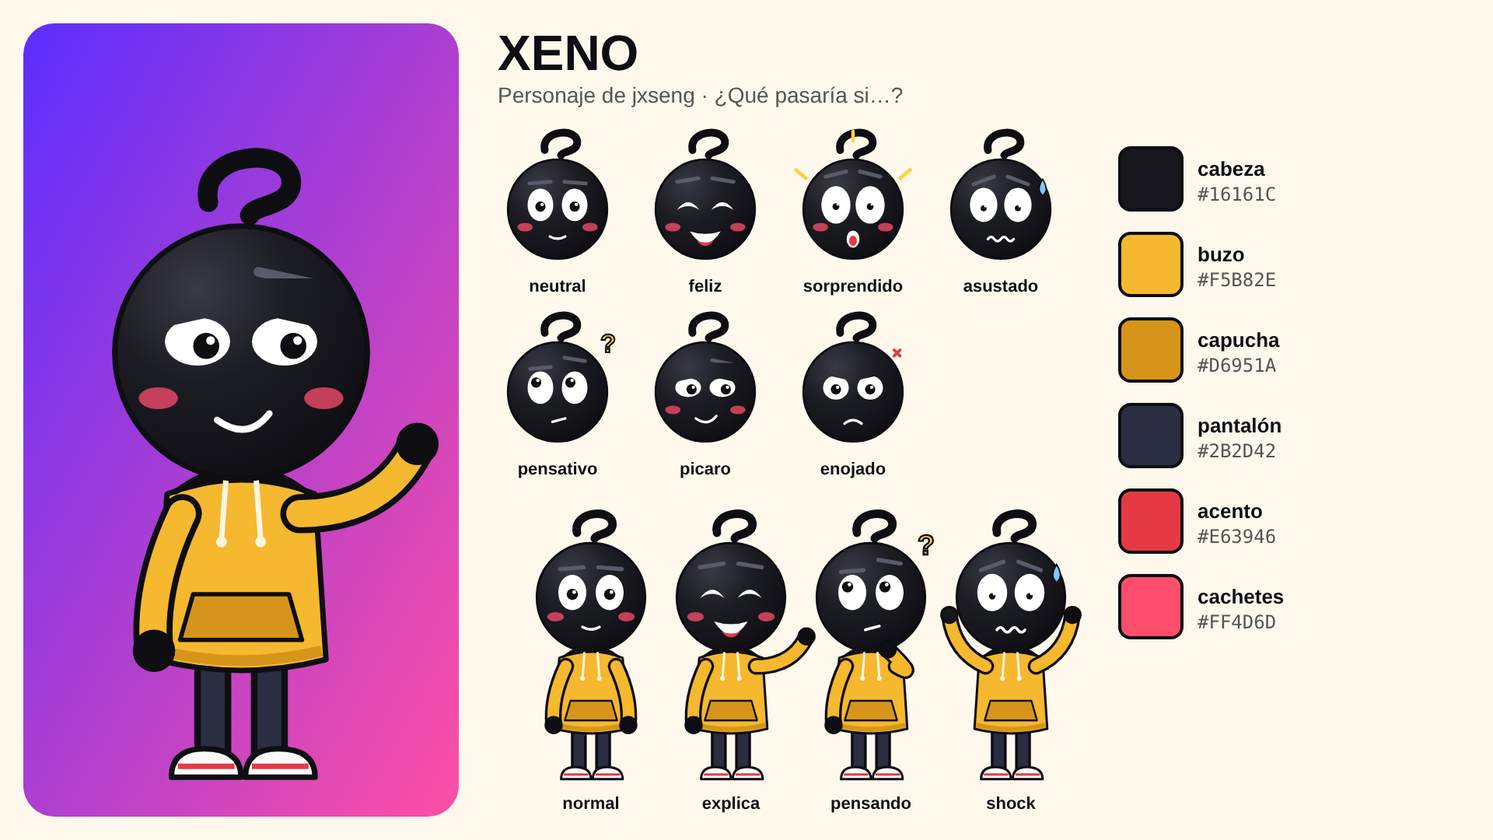
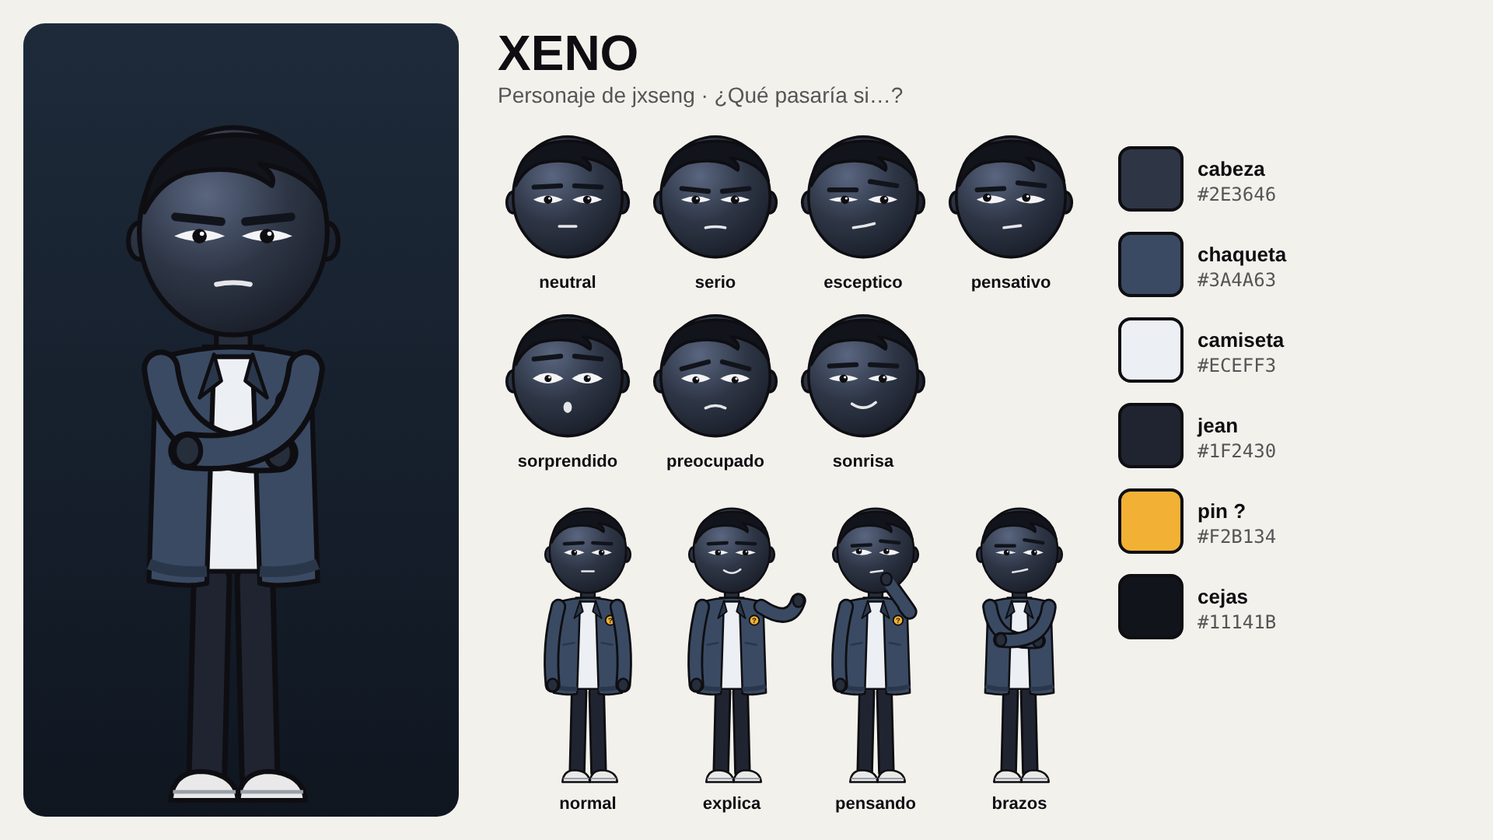
Xeno v3: versión seria (proporciones adultas, chaqueta bomber, ojos almendrados)
Claude-Session: https://claude.ai/code/session_011f9PzjpwXDM6HqEJ82Dbs1

diff --git a/videos-geopolitica/personaje/personaje.py b/videos-geopolitica/personaje/personaje.py
@@ -1,105 +1,88 @@
-"""Xeno v2: estilo de la referencia (cabeza negra redonda, ojos blancos grandes, buzo), con rasgos propios:
-rizo en forma de "?" y buzo mostaza con capucha."""
-HEAD, OUT = '#16161C', '#0E0E12'
-HOOD, HOODD, STR, PANTS, SHOE, ACC = '#F5B82E', '#D6951A', '#FFF6E0', '#2B2D42', '#FAFAFA', '#E63946'
-W = 5
+"""Xeno v3 (serio): silueta negra estilo referencia con proporciones de adulto, ojos almendrados,
+chaqueta bomber gris azulado, camiseta blanca, jean oscuro. Sello discreto: pin "?" en el pecho."""
+OUT = '#0E0E12'
+JACK, JACKD, TEE, PANTS, SHOE, PIN = '#3A4A63', '#2A374B', '#ECEFF3', '#1F2430', '#E9E9E9', '#F2B134'
+BROW = '#11141B'
+W = 4
 
 def defs():
-    return ('<defs><radialGradient id="hl" gradientUnits="userSpaceOnUse" cx="160" cy="130" r="190">'
-            '<stop offset="0" stop-color="#3A3A46"/><stop offset=".45" stop-color="#1C1C24"/><stop offset="1" stop-color="#0E0E12"/>'
+    return ('<defs><radialGradient id="hl" gradientUnits="userSpaceOnUse" cx="178" cy="78" r="120">'
+            '<stop offset="0" stop-color="#5A6680"/><stop offset=".55" stop-color="#2E3646"/><stop offset="1" stop-color="#1A1F2A"/>'
             '</radialGradient></defs>')
 
+def almond(x, y, w, h, lid=0):
+    return f'M{x-w} {y} Q{x} {y-h-lid} {x+w} {y} Q{x} {y+h*0.85} {x-w} {y}Z'
+
 def eyes(e):
-    s = []
-    if e == 'feliz':
-        for x in (160, 240):
-            s.append(f'<path d="M{x-26} 190 Q{x} 154 {x+26} 190 Q{x} 172 {x-26} 190Z" fill="#fff"/>')
-        return ''.join(s)
-    rx, ry, pr, dx, dy = 30, 38, 12, 0, 2
-    if e == 'sorprendido': rx, ry, pr = 34, 44, 8
-    if e == 'asustado': rx, ry, pr, dy = 32, 40, 7, 6
-    if e == 'pensativo': dx, dy = -10, -14
-    if e == 'picaro': ry, dx = 22, 8
-    if e == 'enojado': ry = 28
-    for x in (160, 240):
-        s.append(f'<ellipse cx="{x}" cy="178" rx="{rx}" ry="{ry}" fill="#fff"/>')
-        s.append(f'<circle cx="{x+dx}" cy="{180+dy}" r="{pr}" fill="{OUT}"/>')
-        s.append(f'<circle cx="{x+dx+4}" cy="{175+dy}" r="{max(3,pr//3)}" fill="#fff"/>')
-    if e in ('enojado', 'picaro'):
-        for x, sgn in ((160, 1), (240, -1)):
-            top = 146 if e == 'enojado' else 150
-            a, b = (top, top + 16) if (sgn > 0) == (e == 'enojado') else (top + 16, top)
-            s.append(f'<path d="M{x-36} {a} L{x+36} {b} L{x+36} 120 L{x-36} 120Z" fill="url(#hl)"/>')
-    return ''.join(s)
-
-def brows(e):
-    d = {'neutral': ((134,128,184,124),(216,124,266,128)),
-         'feliz': ((134,124,184,116),(216,116,266,124)),
-         'sorprendido': ((136,112,184,100),(216,100,264,112)),
-         'asustado': ((136,130,184,112),(216,112,264,130)),
-         'pensativo': ((136,134,184,130),(216,108,264,116)),
-         'picaro': ((136,130,184,128),(216,114,264,124)),
-         'enojado': ((136,124,188,144),(212,144,264,124))}[e]
-    return ''.join(f'<line x1="{a}" y1="{b}" x2="{c}" y2="{f}" stroke="#5A5A68" stroke-width="9" stroke-linecap="round"/>' for a,b,c,f in d)
-
-def mouth(e):
-    return {'neutral': '<path d="M182 252 Q200 262 218 252" fill="none" stroke="#fff" stroke-width="6" stroke-linecap="round"/>',
-            'feliz': '<path d="M164 240 Q200 296 236 240 Q200 252 164 240Z" fill="#fff"/><path d="M180 262 Q200 286 220 262 Q200 270 180 262Z" fill="#E63946"/>',
-            'sorprendido': '<ellipse cx="200" cy="258" rx="15" ry="20" fill="#fff"/><ellipse cx="200" cy="262" rx="9" ry="12" fill="#E63946"/>',
-            'asustado': '<path d="M170 258 q7.5 -10 15 0 t15 0 t15 0 t15 0" fill="none" stroke="#fff" stroke-width="6" stroke-linecap="round"/>',
-            'pensativo': '<path d="M188 258 L218 250" stroke="#fff" stroke-width="6" stroke-linecap="round"/>',
-            'picaro': '<path d="M178 250 Q206 270 226 244" fill="none" stroke="#fff" stroke-width="6" stroke-linecap="round"/>',
-            'enojado': '<path d="M180 262 Q200 246 220 262" fill="none" stroke="#fff" stroke-width="6" stroke-linecap="round"/>'}[e]
-
-def extras(e):
+    cfg = {'neutral': (21, 12, 6, 0, 0), 'serio': (21, 10, 6, 0, 0), 'esceptico': (21, 11, 6, 2, 0),
+           'sorprendido': (22, 16, 5, 0, 0), 'preocupado': (21, 13, 5, 0, 2), 'pensativo': (21, 12, 6, -6, -3),
+           'sonrisa': (21, 10, 6, 0, 0)}[e]
+    w, h, pr, dx, dy = cfg
     s = ''
-    if e in ('feliz', 'sorprendido', 'picaro', 'neutral'):
-        s += '<ellipse cx="124" cy="230" rx="18" ry="10" fill="#FF4D6D" opacity=".75"/><ellipse cx="276" cy="230" rx="18" ry="10" fill="#FF4D6D" opacity=".75"/>'
-    if e == 'asustado':
-        s += f'<path d="M298 118 q16 26 0 38 q-16 -12 0 -38Z" fill="#7CC8FF" stroke="{OUT}" stroke-width="3"/>'
-    if e == 'pensativo':
-        s += f'<text x="300" y="96" font-family="Arial Black,Arial" font-weight="900" font-size="60" fill="#FFD23F" stroke="{OUT}" stroke-width="4">?</text>'
-    if e == 'sorprendido':
-        s += '<g stroke="#FFD23F" stroke-width="8" stroke-linecap="round"><line x1="66" y1="96" x2="90" y2="116"/><line x1="334" y1="96" x2="310" y2="116"/><line x1="200" y1="6" x2="200" y2="28"/></g>'
-    if e == 'enojado':
-        s += '<path d="M296 104 l14 -14 m-14 0 l14 14" stroke="#E63946" stroke-width="7" stroke-linecap="round"/>'
+    for i, x in enumerate((172, 228)):
+        hh = h - 3 if (e == 'esceptico' and i == 0) else h
+        s += f'<path d="{almond(x, 112, w, hh)}" fill="#F4F4F6"/>'
+        s += f'<circle cx="{x+dx}" cy="{112+dy}" r="{pr}" fill="{OUT}"/>'
+        s += f'<circle cx="{x+dx+2}" cy="{110+dy}" r="1.8" fill="#fff"/>'
     return s
 
+def brows(e):
+    d = {'neutral': ((152,94,190,92),(210,92,248,94)),
+         'serio': ((152,96,190,100),(210,100,248,96)),
+         'esceptico': ((152,98,190,98),(210,86,248,92)),
+         'sorprendido': ((152,84,190,80),(210,80,248,84)),
+         'preocupado': ((152,98,190,88),(210,88,248,98)),
+         'pensativo': ((152,98,190,96),(210,88,248,92)),
+         'sonrisa': ((152,94,190,92),(210,92,248,94))}[e]
+    return ''.join(f'<path d="M{a} {b} L{c} {f}" stroke="{BROW}" stroke-width="7" stroke-linecap="round"/>' for a, b, c, f in d)
+
+def mouth(e):
+    c = '#E6E6EA'
+    return {'neutral': f'<path d="M188 150 L212 150" stroke="{c}" stroke-width="4" stroke-linecap="round"/>',
+            'serio': f'<path d="M186 152 Q200 149 214 152" fill="none" stroke="{c}" stroke-width="4" stroke-linecap="round"/>',
+            'esceptico': f'<path d="M186 152 Q202 150 216 146" fill="none" stroke="{c}" stroke-width="4" stroke-linecap="round"/>',
+            'sorprendido': f'<ellipse cx="200" cy="153" rx="6" ry="8" fill="{c}"/>',
+            'preocupado': f'<path d="M186 154 Q200 147 214 154" fill="none" stroke="{c}" stroke-width="4" stroke-linecap="round"/>',
+            'pensativo': f'<path d="M190 152 L214 149" stroke="{c}" stroke-width="4" stroke-linecap="round"/>',
+            'sonrisa': f'<path d="M184 148 Q202 160 218 146" fill="none" stroke="{c}" stroke-width="4" stroke-linecap="round"/>'}[e]
+
 def head(e):
-    curl = (f'<path d="M170 50 C160 2 250 -4 246 34 C244 54 212 52 208 62" fill="none" stroke="{OUT}" stroke-width="18" stroke-linecap="round"/>')
-    return (curl + f'<circle cx="200" cy="188" r="116" fill="url(#hl)" stroke="{OUT}" stroke-width="{W}"/>'
-            + brows(e) + eyes(e) + mouth(e) + extras(e))
+    hair = (f'<path d="M126 92 Q128 30 200 28 Q266 28 276 86 Q262 58 222 52 Q236 62 232 70 Q206 50 160 60 Q138 68 126 92Z" '
+            f'fill="#11141B" stroke="{OUT}" stroke-width="{W}" stroke-linejoin="round"/>')
+    ears = ''.join(f'<ellipse cx="{x}" cy="116" rx="9" ry="15" fill="url(#hl)" stroke="{OUT}" stroke-width="{W}"/>' for x in (122, 278))
+    face = f'<ellipse cx="200" cy="108" rx="78" ry="86" fill="url(#hl)" stroke="{OUT}" stroke-width="{W}"/>'
+    return ears + face + hair + brows(e) + eyes(e) + mouth(e)
 
 def arm(x0, y0, x1, y1, x2, y2):
-    return (f'<path d="M{x0} {y0} Q{x1} {y1} {x2} {y2}" fill="none" stroke="{OUT}" stroke-width="36" stroke-linecap="round"/>'
-            f'<path d="M{x0} {y0} Q{x1} {y1} {x2} {y2}" fill="none" stroke="{HOOD}" stroke-width="25" stroke-linecap="round"/>'
-            f'<circle cx="{x2}" cy="{y2}" r="17" fill="url(#hl)" stroke="{OUT}" stroke-width="{W}"/>')
+    return (f'<path d="M{x0} {y0} Q{x1} {y1} {x2} {y2}" fill="none" stroke="{OUT}" stroke-width="32" stroke-linecap="round"/>'
+            f'<path d="M{x0} {y0} Q{x1} {y1} {x2} {y2}" fill="none" stroke="{JACK}" stroke-width="23" stroke-linecap="round"/>'
+            f'<ellipse cx="{x2}" cy="{y2}" rx="11" ry="13" fill="#262D3B" stroke="{OUT}" stroke-width="{W}"/>')
 
 def body(pose):
-    arms = {'normal': arm(146, 336, 114, 404, 120, 462) + arm(254, 336, 286, 404, 280, 462),
-            'pensando': arm(146, 336, 114, 404, 120, 462) + arm(254, 336, 304, 366, 236, 300),
-            'shock': arm(146, 336, 78, 306, 68, 226) + arm(254, 336, 322, 306, 332, 226),
-            'explica': arm(146, 336, 114, 404, 120, 462) + arm(254, 336, 332, 336, 362, 272)}[pose]
-    legs = ''.join(f'<path d="M{x} 470 L{x} 556" stroke="{OUT}" stroke-width="34" stroke-linecap="round"/>'
-                   f'<path d="M{x} 470 L{x} 556" stroke="{PANTS}" stroke-width="22" stroke-linecap="round"/>' for x in (174, 226))
-    shoes = ''.join(f'<path d="M{x-30} 578 Q{x-30} 552 {x} 552 Q{x+34} 552 {x+34} 578Z" fill="{SHOE}" stroke="{OUT}" stroke-width="{W}" stroke-linejoin="round"/>'
-                    f'<path d="M{x-24} 568 L{x+28} 568" stroke="{ACC}" stroke-width="5"/>' for x in (166, 234))
-    torso = (f'<path d="M132 318 Q200 292 268 318 L278 470 Q200 490 122 470 Z" fill="{HOOD}" stroke="{OUT}" stroke-width="{W}" stroke-linejoin="round"/>'
-             # capucha detrás del cuello
-             f'<path d="M140 316 Q200 270 260 316 Q236 300 200 300 Q164 300 140 316Z" fill="{HOODD}" stroke="{OUT}" stroke-width="{W}" stroke-linejoin="round"/>'
-             # cordones
-             f'<path d="M186 306 L182 360 M214 306 L218 360" stroke="{STR}" stroke-width="5" stroke-linecap="round"/>'
-             f'<circle cx="182" cy="362" r="5" fill="{STR}"/><circle cx="218" cy="362" r="5" fill="{STR}"/>'
-             # bolsillo canguro
-             f'<path d="M156 410 L244 410 L256 452 L144 452 Z" fill="{HOODD}" stroke="{OUT}" stroke-width="4" stroke-linejoin="round"/>'
-             f'<path d="M126 462 Q200 480 274 462" fill="none" stroke="{HOODD}" stroke-width="10"/>')
-    return legs + shoes + torso + arms
+    A = {'normal': arm(140, 222, 120, 300, 128, 382) + arm(260, 222, 280, 300, 272, 382),
+         'explica': arm(140, 222, 120, 300, 128, 382) + arm(260, 222, 320, 262, 336, 210),
+         'pensando': arm(140, 222, 120, 300, 128, 382) + arm(260, 222, 290, 260, 222, 166),
+         'brazos': arm(140, 222, 150, 300, 238, 292) + arm(260, 222, 250, 300, 162, 290)}[pose]
+    legs = ''.join(f'<path d="M{x} 396 L{x+dx} 560" stroke="{OUT}" stroke-width="34" stroke-linecap="round"/>'
+                   f'<path d="M{x} 396 L{x+dx} 560" stroke="{PANTS}" stroke-width="25" stroke-linecap="round"/>' for x, dx in ((182, -4), (218, 4)))
+    shoes = ''.join(f'<path d="M{x-24} 580 Q{x-22} 556 {x+2} 556 Q{x+30} 558 {x+32} 580Z" fill="{SHOE}" stroke="{OUT}" stroke-width="{W}" stroke-linejoin="round"/>'
+                    f'<path d="M{x-22} 573 L{x+30} 573" stroke="#9AA0AA" stroke-width="3"/>' for x in (172, 228))
+    neck = f'<rect x="186" y="186" width="28" height="22" fill="#262D3B" stroke="{OUT}" stroke-width="{W}"/>'
+    tee = f'<path d="M176 204 L224 204 L230 390 L170 390Z" fill="{TEE}" stroke="{OUT}" stroke-width="{W}"/>'
+    jacket = (f'<path d="M136 214 Q200 194 264 214 L270 398 Q238 404 222 400 L216 212 L184 212 L178 400 Q162 404 130 398Z" '
+              f'fill="{JACK}" stroke="{OUT}" stroke-width="{W}" stroke-linejoin="round"/>'
+              f'<path d="M184 210 L172 246 L190 232Z M216 210 L228 246 L210 232Z" fill="{JACKD}" stroke="{OUT}" stroke-width="3" stroke-linejoin="round"/>'
+              f'<path d="M130 384 Q150 392 178 390 M222 390 Q250 392 270 384" fill="none" stroke="{JACKD}" stroke-width="9"/>'
+              f'<path d="M150 300 L172 296 M228 296 L250 300" stroke="{JACKD}" stroke-width="4" stroke-linecap="round"/>'
+              f'<circle cx="246" cy="250" r="10" fill="{PIN}" stroke="{OUT}" stroke-width="3"/>'
+              f'<text x="246" y="256" text-anchor="middle" font-family="Arial Black,Arial" font-weight="900" font-size="15" fill="{OUT}">?</text>')
+    return legs + shoes + neck + tee + jacket + A
 
 def personaje(e='neutral', pose='normal'):
     b = body(pose)
     if pose == 'pensando':
-        split = b.rfind('<path d="M254 336')
-        return b[:split] + head(e) + b[split:]
+        k = b.rfind('<path d="M260 222')
+        return b[:k] + head(e) + b[k:]
     return b + head(e)
 
 def svg(inner, w=400, h=600, vb='0 0 400 600'):
@@ -108,25 +91,26 @@ def svg(inner, w=400, h=600, vb='0 0 400 600'):
 if __name__ == '__main__':
     import os
     os.makedirs('svg', exist_ok=True)
-    EXP = ['neutral', 'feliz', 'sorprendido', 'asustado', 'pensativo', 'picaro', 'enojado']
-    POSES = [('normal', 'neutral'), ('explica', 'feliz'), ('pensando', 'pensativo'), ('shock', 'asustado')]
-    for e in EXP: open(f'svg/cara_{e}.svg', 'w').write(svg(head(e), 400, 330, '60 -10 280 330'))
+    EXP = ['neutral', 'serio', 'esceptico', 'pensativo', 'sorprendido', 'preocupado', 'sonrisa']
+    POSES = [('normal', 'neutral'), ('explica', 'sonrisa'), ('pensando', 'pensativo'), ('brazos', 'esceptico')]
+    for f in os.listdir('svg'): os.remove(os.path.join('svg', f))
+    for e in EXP: open(f'svg/cara_{e}.svg', 'w').write(svg(head(e), 300, 240, '100 10 200 200'))
     for p, e in POSES: open(f'svg/pose_{p}.svg', 'w').write(svg(personaje(e, p)))
-    g = ['<defs><linearGradient id="bg" x1="0" y1="0" x2="1" y2="1"><stop offset="0" stop-color="#5B2EFF"/><stop offset="1" stop-color="#FF4FA3"/></linearGradient></defs>',
-         '<rect width="1920" height="1080" fill="#FFF8EC"/>',
-         '<rect x="30" y="30" width="560" height="1020" rx="40" fill="url(#bg)"/>',
+    g = ['<defs><linearGradient id="bg" x1="0" y1="0" x2="0" y2="1"><stop offset="0" stop-color="#1E2A3A"/><stop offset="1" stop-color="#0F1620"/></linearGradient></defs>',
+         '<rect width="1920" height="1080" fill="#F3F1EC"/>',
+         '<rect x="30" y="30" width="560" height="1020" rx="28" fill="url(#bg)"/>',
          f'<text x="640" y="90" font-family="Arial Black,Arial" font-weight="900" font-size="64" fill="{OUT}">XENO</text>',
          '<text x="640" y="132" font-family="Arial" font-size="28" fill="#555">Personaje de jxseng · ¿Qué pasaría si…?</text>',
-         f'<g transform="translate(30,190) scale(1.4)">{personaje("picaro", "explica")}</g>']
+         f'<g transform="translate(-10,130) scale(1.55)">{personaje("serio", "brazos")}</g>']
     for i, e in enumerate(EXP):
-        x, y = 640 + (i % 4) * 190, 160 + (i // 4) * 235
-        g.append(f'<g transform="translate({x},{y}) scale(.55)"><g transform="translate(-60,10)">{head(e)}</g></g>')
-        g.append(f'<text x="{x+77}" y="{y+215}" text-anchor="middle" font-family="Arial" font-weight="700" font-size="22" fill="{OUT}">{e}</text>')
+        x, y = 640 + (i % 4) * 190, 165 + (i // 4) * 230
+        g.append(f'<g transform="translate({x},{y}) scale(.9)"><g transform="translate(-100,-10)">{head(e)}</g></g>')
+        g.append(f'<text x="{x+90}" y="{y+205}" text-anchor="middle" font-family="Arial" font-weight="700" font-size="22" fill="{OUT}">{e}</text>')
     for i, (p, e) in enumerate(POSES):
-        x = 640 + i * 180
-        g.append(f'<g transform="translate({x},655) scale(.6)">{personaje(e, p)}</g>')
-        g.append(f'<text x="{x+120}" y="1040" text-anchor="middle" font-family="Arial" font-weight="700" font-size="22" fill="{OUT}">{p}</text>')
-    for i, (c, n) in enumerate([(HEAD, 'cabeza'), (HOOD, 'buzo'), (HOODD, 'capucha'), (PANTS, 'pantalón'), (ACC, 'acento'), ('#FF4D6D', 'cachetes')]):
+        x = 630 + i * 185
+        g.append(f'<g transform="translate({x},640) scale(.63)">{personaje(e, p)}</g>')
+        g.append(f'<text x="{x+126}" y="1040" text-anchor="middle" font-family="Arial" font-weight="700" font-size="22" fill="{OUT}">{p}</text>')
+    for i, (c, n) in enumerate([('#2E3646', 'cabeza'), (JACK, 'chaqueta'), (TEE, 'camiseta'), (PANTS, 'jean'), (PIN, 'pin ?'), (BROW, 'cejas')]):
         y = 190 + i * 110
         g.append(f'<rect x="1440" y="{y}" width="80" height="80" rx="14" fill="{c}" stroke="{OUT}" stroke-width="4"/>')
         g.append(f'<text x="1540" y="{y+36}" font-family="Arial" font-weight="700" font-size="26" fill="{OUT}">{n}</text>')

diff --git a/videos-geopolitica/personaje/personaje_v2.py b/videos-geopolitica/personaje/personaje_v2.py
@@ -1,0 +1,135 @@
+"""Xeno v2: estilo de la referencia (cabeza negra redonda, ojos blancos grandes, buzo), con rasgos propios:
+rizo en forma de "?" y buzo mostaza con capucha."""
+HEAD, OUT = '#16161C', '#0E0E12'
+HOOD, HOODD, STR, PANTS, SHOE, ACC = '#F5B82E', '#D6951A', '#FFF6E0', '#2B2D42', '#FAFAFA', '#E63946'
+W = 5
+
+def defs():
+    return ('<defs><radialGradient id="hl" gradientUnits="userSpaceOnUse" cx="160" cy="130" r="190">'
+            '<stop offset="0" stop-color="#3A3A46"/><stop offset=".45" stop-color="#1C1C24"/><stop offset="1" stop-color="#0E0E12"/>'
+            '</radialGradient></defs>')
+
+def eyes(e):
+    s = []
+    if e == 'feliz':
+        for x in (160, 240):
+            s.append(f'<path d="M{x-26} 190 Q{x} 154 {x+26} 190 Q{x} 172 {x-26} 190Z" fill="#fff"/>')
+        return ''.join(s)
+    rx, ry, pr, dx, dy = 30, 38, 12, 0, 2
+    if e == 'sorprendido': rx, ry, pr = 34, 44, 8
+    if e == 'asustado': rx, ry, pr, dy = 32, 40, 7, 6
+    if e == 'pensativo': dx, dy = -10, -14
+    if e == 'picaro': ry, dx = 22, 8
+    if e == 'enojado': ry = 28
+    for x in (160, 240):
+        s.append(f'<ellipse cx="{x}" cy="178" rx="{rx}" ry="{ry}" fill="#fff"/>')
+        s.append(f'<circle cx="{x+dx}" cy="{180+dy}" r="{pr}" fill="{OUT}"/>')
+        s.append(f'<circle cx="{x+dx+4}" cy="{175+dy}" r="{max(3,pr//3)}" fill="#fff"/>')
+    if e in ('enojado', 'picaro'):
+        for x, sgn in ((160, 1), (240, -1)):
+            top = 146 if e == 'enojado' else 150
+            a, b = (top, top + 16) if (sgn > 0) == (e == 'enojado') else (top + 16, top)
+            s.append(f'<path d="M{x-36} {a} L{x+36} {b} L{x+36} 120 L{x-36} 120Z" fill="url(#hl)"/>')
+    return ''.join(s)
+
+def brows(e):
+    d = {'neutral': ((134,128,184,124),(216,124,266,128)),
+         'feliz': ((134,124,184,116),(216,116,266,124)),
+         'sorprendido': ((136,112,184,100),(216,100,264,112)),
+         'asustado': ((136,130,184,112),(216,112,264,130)),
+         'pensativo': ((136,134,184,130),(216,108,264,116)),
+         'picaro': ((136,130,184,128),(216,114,264,124)),
+         'enojado': ((136,124,188,144),(212,144,264,124))}[e]
+    return ''.join(f'<line x1="{a}" y1="{b}" x2="{c}" y2="{f}" stroke="#5A5A68" stroke-width="9" stroke-linecap="round"/>' for a,b,c,f in d)
+
+def mouth(e):
+    return {'neutral': '<path d="M182 252 Q200 262 218 252" fill="none" stroke="#fff" stroke-width="6" stroke-linecap="round"/>',
+            'feliz': '<path d="M164 240 Q200 296 236 240 Q200 252 164 240Z" fill="#fff"/><path d="M180 262 Q200 286 220 262 Q200 270 180 262Z" fill="#E63946"/>',
+            'sorprendido': '<ellipse cx="200" cy="258" rx="15" ry="20" fill="#fff"/><ellipse cx="200" cy="262" rx="9" ry="12" fill="#E63946"/>',
+            'asustado': '<path d="M170 258 q7.5 -10 15 0 t15 0 t15 0 t15 0" fill="none" stroke="#fff" stroke-width="6" stroke-linecap="round"/>',
+            'pensativo': '<path d="M188 258 L218 250" stroke="#fff" stroke-width="6" stroke-linecap="round"/>',
+            'picaro': '<path d="M178 250 Q206 270 226 244" fill="none" stroke="#fff" stroke-width="6" stroke-linecap="round"/>',
+            'enojado': '<path d="M180 262 Q200 246 220 262" fill="none" stroke="#fff" stroke-width="6" stroke-linecap="round"/>'}[e]
+
+def extras(e):
+    s = ''
+    if e in ('feliz', 'sorprendido', 'picaro', 'neutral'):
+        s += '<ellipse cx="124" cy="230" rx="18" ry="10" fill="#FF4D6D" opacity=".75"/><ellipse cx="276" cy="230" rx="18" ry="10" fill="#FF4D6D" opacity=".75"/>'
+    if e == 'asustado':
+        s += f'<path d="M298 118 q16 26 0 38 q-16 -12 0 -38Z" fill="#7CC8FF" stroke="{OUT}" stroke-width="3"/>'
+    if e == 'pensativo':
+        s += f'<text x="300" y="96" font-family="Arial Black,Arial" font-weight="900" font-size="60" fill="#FFD23F" stroke="{OUT}" stroke-width="4">?</text>'
+    if e == 'sorprendido':
+        s += '<g stroke="#FFD23F" stroke-width="8" stroke-linecap="round"><line x1="66" y1="96" x2="90" y2="116"/><line x1="334" y1="96" x2="310" y2="116"/><line x1="200" y1="6" x2="200" y2="28"/></g>'
+    if e == 'enojado':
+        s += '<path d="M296 104 l14 -14 m-14 0 l14 14" stroke="#E63946" stroke-width="7" stroke-linecap="round"/>'
+    return s
+
+def head(e):
+    curl = (f'<path d="M170 50 C160 2 250 -4 246 34 C244 54 212 52 208 62" fill="none" stroke="{OUT}" stroke-width="18" stroke-linecap="round"/>')
+    return (curl + f'<circle cx="200" cy="188" r="116" fill="url(#hl)" stroke="{OUT}" stroke-width="{W}"/>'
+            + brows(e) + eyes(e) + mouth(e) + extras(e))
+
+def arm(x0, y0, x1, y1, x2, y2):
+    return (f'<path d="M{x0} {y0} Q{x1} {y1} {x2} {y2}" fill="none" stroke="{OUT}" stroke-width="36" stroke-linecap="round"/>'
+            f'<path d="M{x0} {y0} Q{x1} {y1} {x2} {y2}" fill="none" stroke="{HOOD}" stroke-width="25" stroke-linecap="round"/>'
+            f'<circle cx="{x2}" cy="{y2}" r="17" fill="url(#hl)" stroke="{OUT}" stroke-width="{W}"/>')
+
+def body(pose):
+    arms = {'normal': arm(146, 336, 114, 404, 120, 462) + arm(254, 336, 286, 404, 280, 462),
+            'pensando': arm(146, 336, 114, 404, 120, 462) + arm(254, 336, 304, 366, 236, 300),
+            'shock': arm(146, 336, 78, 306, 68, 226) + arm(254, 336, 322, 306, 332, 226),
+            'explica': arm(146, 336, 114, 404, 120, 462) + arm(254, 336, 332, 336, 362, 272)}[pose]
+    legs = ''.join(f'<path d="M{x} 470 L{x} 556" stroke="{OUT}" stroke-width="34" stroke-linecap="round"/>'
+                   f'<path d="M{x} 470 L{x} 556" stroke="{PANTS}" stroke-width="22" stroke-linecap="round"/>' for x in (174, 226))
+    shoes = ''.join(f'<path d="M{x-30} 578 Q{x-30} 552 {x} 552 Q{x+34} 552 {x+34} 578Z" fill="{SHOE}" stroke="{OUT}" stroke-width="{W}" stroke-linejoin="round"/>'
+                    f'<path d="M{x-24} 568 L{x+28} 568" stroke="{ACC}" stroke-width="5"/>' for x in (166, 234))
+    torso = (f'<path d="M132 318 Q200 292 268 318 L278 470 Q200 490 122 470 Z" fill="{HOOD}" stroke="{OUT}" stroke-width="{W}" stroke-linejoin="round"/>'
+             # capucha detrás del cuello
+             f'<path d="M140 316 Q200 270 260 316 Q236 300 200 300 Q164 300 140 316Z" fill="{HOODD}" stroke="{OUT}" stroke-width="{W}" stroke-linejoin="round"/>'
+             # cordones
+             f'<path d="M186 306 L182 360 M214 306 L218 360" stroke="{STR}" stroke-width="5" stroke-linecap="round"/>'
+             f'<circle cx="182" cy="362" r="5" fill="{STR}"/><circle cx="218" cy="362" r="5" fill="{STR}"/>'
+             # bolsillo canguro
+             f'<path d="M156 410 L244 410 L256 452 L144 452 Z" fill="{HOODD}" stroke="{OUT}" stroke-width="4" stroke-linejoin="round"/>'
+             f'<path d="M126 462 Q200 480 274 462" fill="none" stroke="{HOODD}" stroke-width="10"/>')
+    return legs + shoes + torso + arms
+
+def personaje(e='neutral', pose='normal'):
+    b = body(pose)
+    if pose == 'pensando':
+        split = b.rfind('<path d="M254 336')
+        return b[:split] + head(e) + b[split:]
+    return b + head(e)
+
+def svg(inner, w=400, h=600, vb='0 0 400 600'):
+    return f'<svg xmlns="http://www.w3.org/2000/svg" width="{w}" height="{h}" viewBox="{vb}">{defs()}{inner}</svg>'
+
+if __name__ == '__main__':
+    import os
+    os.makedirs('svg', exist_ok=True)
+    EXP = ['neutral', 'feliz', 'sorprendido', 'asustado', 'pensativo', 'picaro', 'enojado']
+    POSES = [('normal', 'neutral'), ('explica', 'feliz'), ('pensando', 'pensativo'), ('shock', 'asustado')]
+    for e in EXP: open(f'svg/cara_{e}.svg', 'w').write(svg(head(e), 400, 330, '60 -10 280 330'))
+    for p, e in POSES: open(f'svg/pose_{p}.svg', 'w').write(svg(personaje(e, p)))
+    g = ['<defs><linearGradient id="bg" x1="0" y1="0" x2="1" y2="1"><stop offset="0" stop-color="#5B2EFF"/><stop offset="1" stop-color="#FF4FA3"/></linearGradient></defs>',
+         '<rect width="1920" height="1080" fill="#FFF8EC"/>',
+         '<rect x="30" y="30" width="560" height="1020" rx="40" fill="url(#bg)"/>',
+         f'<text x="640" y="90" font-family="Arial Black,Arial" font-weight="900" font-size="64" fill="{OUT}">XENO</text>',
+         '<text x="640" y="132" font-family="Arial" font-size="28" fill="#555">Personaje de jxseng · ¿Qué pasaría si…?</text>',
+         f'<g transform="translate(30,190) scale(1.4)">{personaje("picaro", "explica")}</g>']
+    for i, e in enumerate(EXP):
+        x, y = 640 + (i % 4) * 190, 160 + (i // 4) * 235
+        g.append(f'<g transform="translate({x},{y}) scale(.55)"><g transform="translate(-60,10)">{head(e)}</g></g>')
+        g.append(f'<text x="{x+77}" y="{y+215}" text-anchor="middle" font-family="Arial" font-weight="700" font-size="22" fill="{OUT}">{e}</text>')
+    for i, (p, e) in enumerate(POSES):
+        x = 640 + i * 180
+        g.append(f'<g transform="translate({x},655) scale(.6)">{personaje(e, p)}</g>')
+        g.append(f'<text x="{x+120}" y="1040" text-anchor="middle" font-family="Arial" font-weight="700" font-size="22" fill="{OUT}">{p}</text>')
+    for i, (c, n) in enumerate([(HEAD, 'cabeza'), (HOOD, 'buzo'), (HOODD, 'capucha'), (PANTS, 'pantalón'), (ACC, 'acento'), ('#FF4D6D', 'cachetes')]):
+        y = 190 + i * 110
+        g.append(f'<rect x="1440" y="{y}" width="80" height="80" rx="14" fill="{c}" stroke="{OUT}" stroke-width="4"/>')
+        g.append(f'<text x="1540" y="{y+36}" font-family="Arial" font-weight="700" font-size="26" fill="{OUT}">{n}</text>')
+        g.append(f'<text x="1540" y="{y+68}" font-family="monospace" font-size="24" fill="#555">{c}</text>')
+    open('hoja_personaje.svg', 'w').write(svg(''.join(g), 1920, 1080, '0 0 1920 1080'))
+    print('ok')
